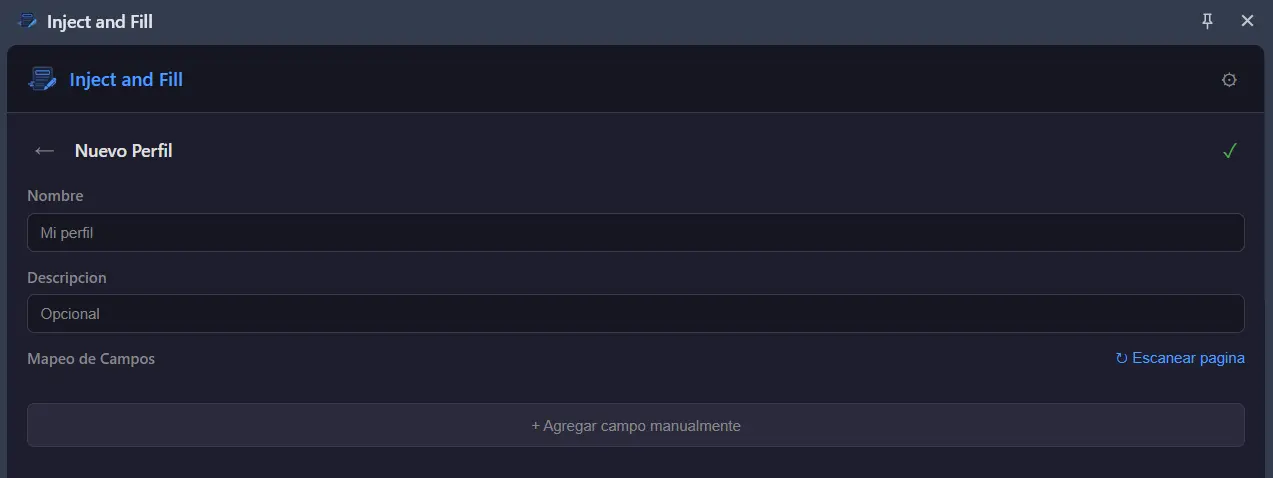
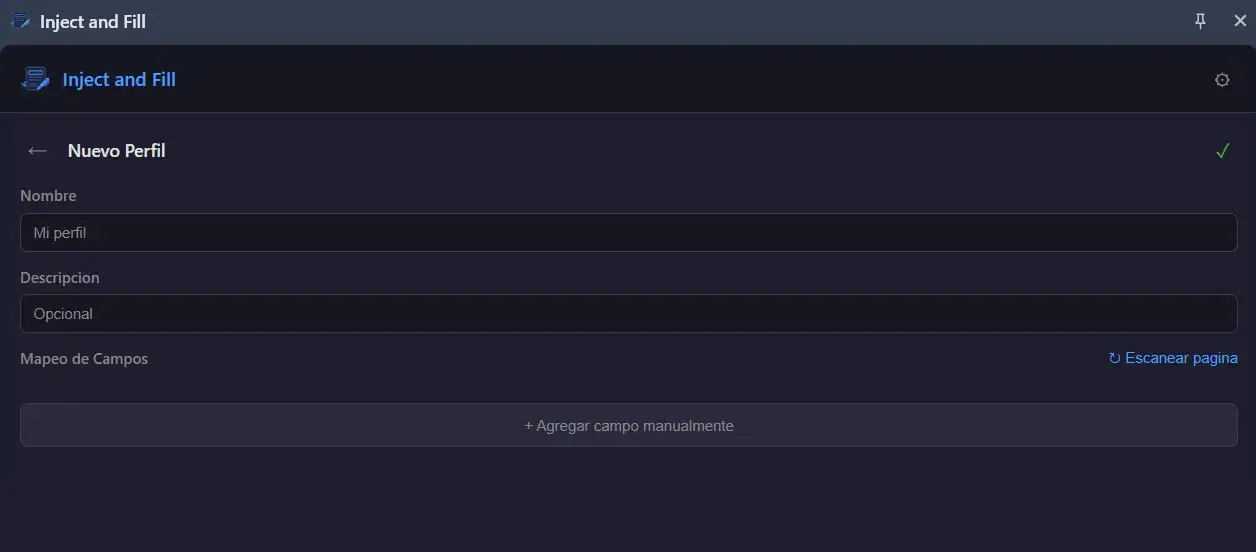
feat: add Inject and Fill as fifth project
- Replace Portafolio CAAT placeholder with Inject and Fill
- Add 4 screenshots and logo
- Chrome extension for automated form filling
- Blue accent (#2563eb), no demo, no collaborators
- First contact with browser extension development
- Fix carousel images object-fit from cover to contain

Changed region(s): [[0.0, 0.0293, 1.0, 1.0], [0.4037, 0.8787, 0.59, 0.9079], [0.4037, 0.7615, 0.59, 0.7908]]

diff --git a/src/sections/Work/Work.jsx b/src/sections/Work/Work.jsx
@@ -4,6 +4,7 @@ import bytedentalLogo from '../../assets/projects/byte-dental/bytedental-logo.pn
 import kiruLogo from '../../assets/projects/kiru/kiru-logo.png'
 import deckroyaleLogo from '../../assets/projects/deck-royale/deck-royale-logo.png'
 import penguinLogo from '../../assets/projects/emperator-penguin-survival-sim/emperator-penguir-survival-sim-logo.png'
+import injectfillLogo from '../../assets/projects/inject-and-fill/inject-and-fill-logo.png'
 import './Work.css'
 
 const PROJECTS = [
@@ -108,16 +109,23 @@ const PROJECTS = [
   },
   {
     id: 5,
-    title: 'Portafolio CAAT',
-    category: 'Frontend · React · Framer Motion',
+    title: 'Inject and Fill',
+    category: 'Extensión · Chrome · JavaScript',
     year: '2026',
-    description: 'Portafolio personal cinematográfico con animaciones scroll-driven.',
-    fullDescription: 'Sitio web portafolio personal con estética cinematográfica. Construido con React y Framer Motion para animaciones scroll-driven, preloader con countdown, partículas flotantes, dock de navegación y diseño responsive. Paleta oscura con acentos ámbar.',
-    accent: '#c4956a',
-    tags: ['React', 'Framer Motion', 'Vite', 'CSS'],
-    github: 'https://github.com/CamiloAT/caat-artifacts',
+    description: 'Extensión de navegador que automatiza el rellenado de formularios con perfiles personalizados.',
+    fullDescription: 'Inject and Fill es una extensión de navegador para Chrome, Edge y Brave que automatiza el rellenado de formularios con perfiles personalizados. Detecta campos de formulario y botones en cualquier página web, permite mapearlos a valores específicos y ejecutar toda la secuencia con un solo clic, soportando inputs de texto, selects, checkboxes, radio buttons y clics en botones.\n\nNació de la necesidad de rellenar formularios de forma rápida y directamente en el navegador. Fue mi primera toma de contacto con el desarrollo de extensiones de navegador, explorando las capacidades de Manifest V3, el uso de side panels, content scripts para inyectar scripts en páginas web y chrome.storage.local para persistencia de datos. Incluye detección inteligente de campos, selector visual de elementos, dropdowns personalizados, edición de perfiles con drag-and-drop y motor de ejecución secuencial o simultáneo con simulación de eventos de frameworks como React, Angular y Vue.',
+    logo: injectfillLogo,
+    accent: '#2563eb',
+    tags: ['Chrome Extension', 'Manifest V3', 'JavaScript', 'HTML', 'CSS'],
+    collaborators: [],
+    github: 'https://github.com/CamiloAT/inject-and-fill',
     demo: '',
-    images: ['/placeholder-1.svg', '/placeholder-2.svg', '/placeholder-3.svg'],
+    images: [
+      '/projects/inject-and-fill/app-photo-1.webp',
+      '/projects/inject-and-fill/app-photo-2.webp',
+      '/projects/inject-and-fill/app-photo-3.webp',
+      '/projects/inject-and-fill/app-photo-4.webp',
+    ],
   },
 ]
 

diff --git a/src/sections/Work/Work.css b/src/sections/Work/Work.css
@@ -242,7 +242,7 @@
 .work__project-image {
   width: 100%;
   height: 100%;
-  object-fit: cover;
+  object-fit: contain;
   display: block;
 }
 
@@ -414,7 +414,7 @@
 .work__modal-img {
   width: 100%;
   height: 100%;
-  object-fit: cover;
+  object-fit: contain;
   display: block;
 }
 